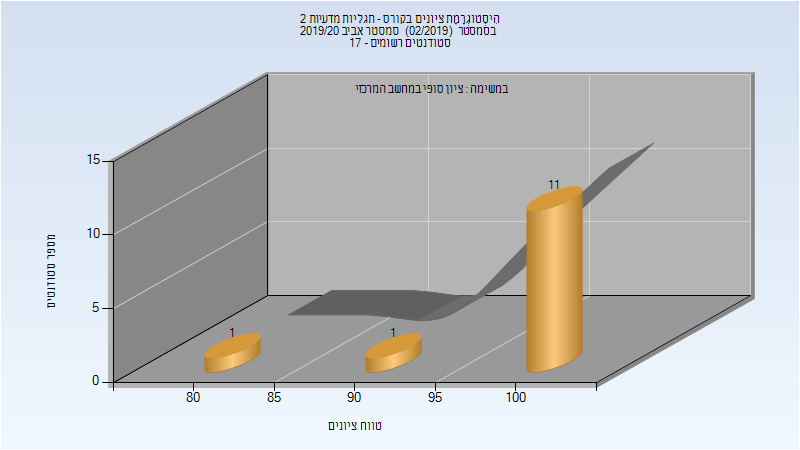
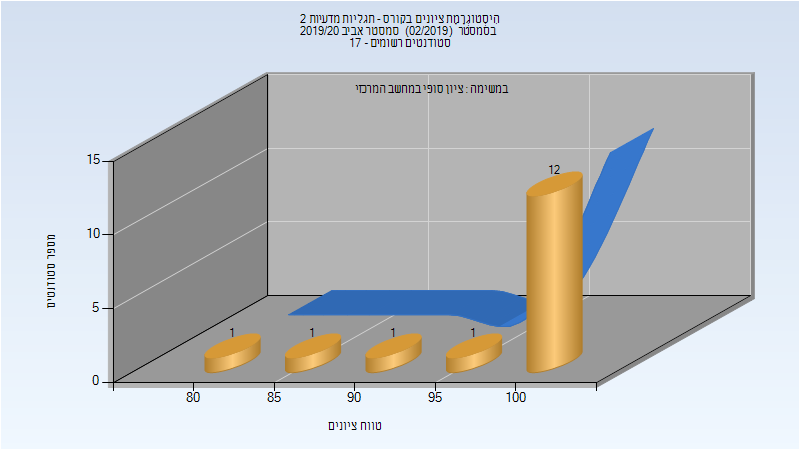
Deploy michael-maltsev/technion-histograms to github.com/michael-maltsev/technion-histograms.git:gh-pages

Changed region(s): [[0.3438, 0.56, 0.6562, 0.84], [0.6562, 0.28, 0.8125, 0.6222]]

diff --git a/034032/index.html b/034032/index.html
@@ -1051,5 +1051,31 @@
 </tr>
 </tbody>
 </table>
+<h3>סופי</h3>
+<p><img src="201902/Finals.png" alt="201902 Finals" /></p>
+<table>
+<thead>
+<tr>
+<th>סטודנטים</th>
+<th>עברו/נכשלו</th>
+<th>אחוז עוברים</th>
+<th>ציון מינימלי</th>
+<th>ציון מקסימלי</th>
+<th>ממוצע</th>
+<th>חציון</th>
+</tr>
+</thead>
+<tbody>
+<tr>
+<td>115</td>
+<td>95/20</td>
+<td>83</td>
+<td>15</td>
+<td>100</td>
+<td>74.087</td>
+<td>77</td>
+</tr>
+</tbody>
+</table>
   </body>
 </html>

diff --git a/034013/index.html b/034013/index.html
@@ -1259,13 +1259,13 @@
 </thead>
 <tbody>
 <tr>
-<td>70</td>
-<td>23/47</td>
-<td>33</td>
-<td>8</td>
+<td>71</td>
+<td>23/48</td>
+<td>32</td>
+<td>7</td>
 <td>90</td>
-<td>47.486</td>
-<td>46</td>
+<td>46.915</td>
+<td>44</td>
 </tr>
 </tbody>
 </table>

diff --git a/114011/index.html b/114011/index.html
@@ -253,12 +253,12 @@
 </thead>
 <tbody>
 <tr>
-<td>13</td>
-<td>13/0</td>
+<td>16</td>
+<td>16/0</td>
 <td>100</td>
 <td>80</td>
 <td>100</td>
-<td>97.692</td>
+<td>96.875</td>
 <td>100</td>
 </tr>
 </tbody>

diff --git a/034032/README.md b/034032/README.md
@@ -327,3 +327,11 @@
 | ---- | ---- | ---- | ---- | ---- | ---- | ---- |
 | 115 | 95/20 | 83 | 15 | 100 | 74.087 | 77 |
 
+### סופי
+
+![201902 Finals](201902/Finals.png)
+
+| סטודנטים | עברו/נכשלו | אחוז עוברים | ציון מינימלי | ציון מקסימלי | ממוצע | חציון |
+| ---- | ---- | ---- | ---- | ---- | ---- | ---- |
+| 115 | 95/20 | 83 | 15 | 100 | 74.087 | 77 |
+

diff --git a/034013/README.md b/034013/README.md
@@ -392,7 +392,7 @@
 
 | סטודנטים | עברו/נכשלו | אחוז עוברים | ציון מינימלי | ציון מקסימלי | ממוצע | חציון |
 | ---- | ---- | ---- | ---- | ---- | ---- | ---- |
-| 70 | 23/47 | 33 | 8 | 90 | 47.486 | 46 |
+| 71 | 23/48 | 32 | 7 | 90 | 46.915 | 44 |
 
 ### סופי
 

diff --git a/114011/README.md b/114011/README.md
@@ -78,5 +78,5 @@
 
 | סטודנטים | עברו/נכשלו | אחוז עוברים | ציון מינימלי | ציון מקסימלי | ממוצע | חציון |
 | ---- | ---- | ---- | ---- | ---- | ---- | ---- |
-| 13 | 13/0 | 100 | 80 | 100 | 97.692 | 100 |
+| 16 | 16/0 | 100 | 80 | 100 | 96.875 | 100 |
 
